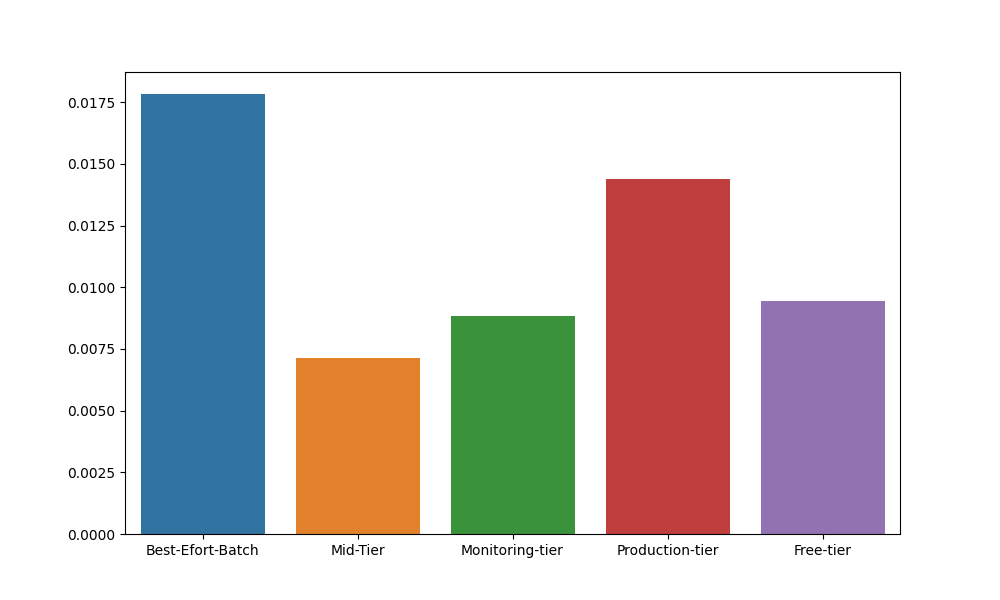
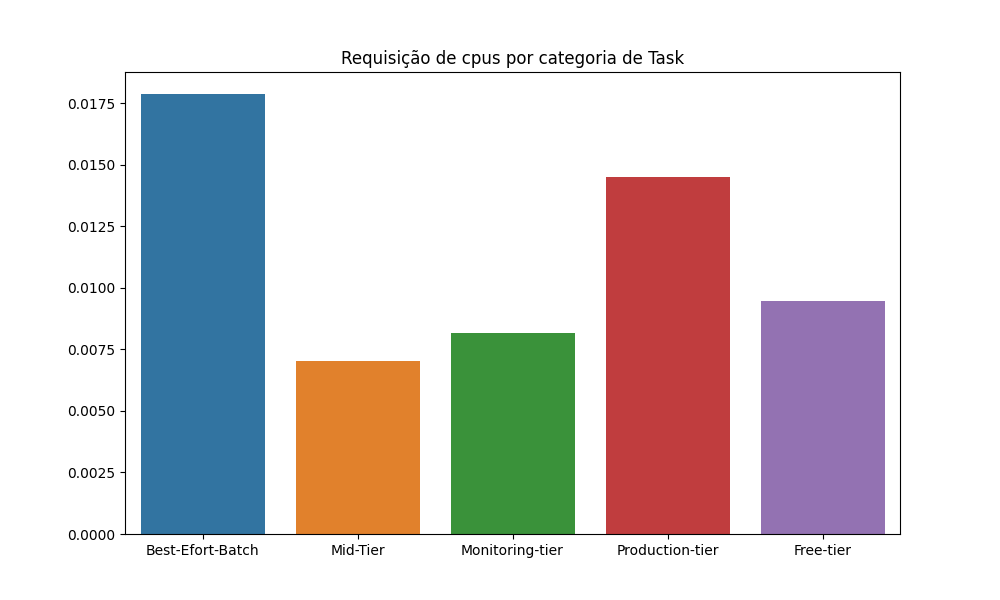
final commit

diff --git a/main.py b/main.py
@@ -1,10 +1,7 @@
 #precisa ser feito antes to import do pyspark
-from cProfile import label
-from re import A
 import findspark
 findspark.init()
 #-------------------------------------------#
-import pyspark
 import matplotlib.pyplot as plt
 from pyspark.sql.functions import col
 import sys, os, math, time
@@ -81,8 +78,8 @@ rddMinJobTimeByCID = rddCE.groupBy("collection_id")\
 
 #percorre os instance_events, coletando métricas utilizadas nas análises
 for filename in os.listdir("instance_events"):
-  
-  if filesCounter==50:
+  #contador para testes
+  if filesCounter==4:
     break
   f = os.path.join("instance_events",filename)
   rddIE = spark.read.option("header","true").schema(instance_events_schema).csv(f)
@@ -178,15 +175,15 @@ plt.title('Requisição de cpus ao longo do tempo')
 plt.savefig('consumocpus.png',dpi=200)
 plt.clf()
 plt.figure(figsize = (10, 6), dpi = 100)
-sns.barplot(x=[j[0] for j in resPerCategory],y=[j[1] for j in resPerCategory])
-plt.savefig("usoCpuPorCat.png").set(title="Requisição de cpus por categoria de Task")
+sns.barplot(x=[j[0] for j in resPerCategory],y=[j[1] for j in resPerCategory]).set_title("Requisição de cpus por categoria de Task")
+plt.savefig("usoCpuPorCat.png")
 plt.clf()
 plt.figure(figsize = (10, 6), dpi = 100)
-sns.barplot(x=[j[0] for j in resPerCategory],y=[j[2] for j in resPerCategory])
-plt.savefig("usoMemPorCat.png").set(title="Requisição de memória por categoria de Task")
+sns.barplot(x=[j[0] for j in resPerCategory],y=[j[2] for j in resPerCategory]).set_title("Utilização de memória por categoria de Task")
+plt.savefig("usoMemPorCat.png")
 plt.clf()
 plt.figure(figsize = (10, 6), dpi = 100)
-sns.regplot(x=y_sum_cpus,y=y_sum_memory).set(title="Relação entre requisições de cpus e memória")
+sns.regplot(x=y_sum_cpus,y=y_sum_memory).set_title("Relação entre requisições de cpus e memória")
 plt.savefig("relacaoMemoriaCpus.png")
 
 outputFile = open("métricas.txt",'w')
